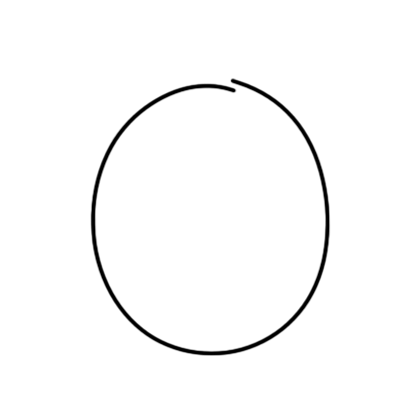
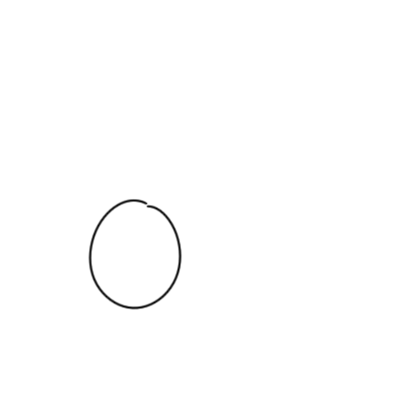
changed squib format, cleaned code a bit

diff --git a/squib_generator.py b/squib_generator.py
@@ -1,12 +1,7 @@
-from PIL import Image
+from PIL import Image, ImageDraw, ImageFont
 import os
 
 orientation_dict = {"straight": "straight_squib", "left": "left_squib", "right": "right_squib"}
-# common = ["eyes", "mouth", "left_arm", "right_arm", "left_leg", "right_leg", "shadow"]
-# rare = []
-# ultra_rare = []
-# one_of_a_kind = []
-
 
 class SquibGenerator:
     """A class for assembling squibs of different rarities."""
@@ -15,14 +10,19 @@ class SquibGenerator:
         self.common_registry = common_registry
         self.output_path = os.path.join("generated", self.orientation)
 
+    def attach(self, img, file_name):
+        attacher = Image.open(file_name).convert("RGBA")
+        img.paste(im=attacher, box=(0, 0, 420, 420), mask=attacher)
+
     def construct_common_squib(self, part_idxs):
         """Given indexes referring to images in the squib directories, construct and save a generated squib."""
-        squib = Image.open(os.path.join("squibs", "straight_squib", "body.png")).convert("RGBA")
+        squib = Image.open(os.path.join("squibs", "white.png")).convert("RGBA")
+        self.attach(squib, os.path.join("squibs", "straight_squib", "body.png"))
+        self.attach(squib, os.path.join("squibs", "straight_squib", "bubble", "bubble.png"))
         for i, part_idx in enumerate(part_idxs):
             part_name = list(self.common_registry)[i]
             img_name = self.common_registry[part_name].get(part_idx)
-            img = Image.open(img_name).convert("RGBA")
-            squib.paste(im=img, box=(0, 0, 420, 420), mask=img)
+            self.attach(squib, img_name)
         output_file = f"{''.join([str(num) for num in part_idxs])}.png"
         squib.save(os.path.join(self.output_path, output_file), format="png")
 
@@ -30,10 +30,11 @@ class SquibGenerator:
     def assemble_common(self):
         """DFS of squib images to construct all possible combinations of common components."""
         seen = set()
-        nodes = [(0, 0, 0, 0, 0, 0, 0)]
+        nodes = [tuple([0]*len(self.common_registry))]
         count = 0
         while nodes: 
             cur = nodes.pop()
+            print(cur)
             self.construct_common_squib(cur)
             # we add a new one to nodes if 1. the index can support it and 2. it is not in seen
             for i, num in enumerate(cur):

diff --git a/main.py b/main.py
@@ -5,15 +5,15 @@ import os
 
 def main():
     """Oversee the generation of different rarity squibs from supplied squib images."""
-    # TODO: create registry system for varying rarities
     common_registry = {
-        "eyes": SquibPart(os.path.join("squibs", "straight_squib", "eyes")),
-        "mouth": SquibPart(os.path.join("squibs", "straight_squib", "mouth")),
-        "left_arm": SquibPart(os.path.join("squibs", "straight_squib", "left_arm")),
-        "right_arm": SquibPart(os.path.join("squibs", "straight_squib", "right_arm")),
-        "left_leg": SquibPart(os.path.join("squibs", "straight_squib", "left_leg")),
-        "right_leg": SquibPart(os.path.join("squibs", "straight_squib", "right_leg")),
-        "shadow": SquibPart(os.path.join("squibs", "straight_squib", "shadow"))
+        ""
+        "face": SquibPart(os.path.join("squibs", "straight_squib", "face")),
+        "arms": SquibPart(os.path.join("squibs", "straight_squib", "arms")),
+        "legs": SquibPart(os.path.join("squibs", "straight_squib", "legs"))
+        # "right_arm": SquibPart(os.path.join("squibs", "straight_squib", "right_arm")),
+        # "left_leg": SquibPart(os.path.join("squibs", "straight_squib", "left_leg")),
+        # "right_leg": SquibPart(os.path.join("squibs", "straight_squib", "right_leg")),
+        # "shadow": SquibPart(os.path.join("squibs", "straight_squib", "shadow"))
     }
     straight_squibs = SquibGenerator("straight", common_registry)
     straight_squibs.assemble_common()
